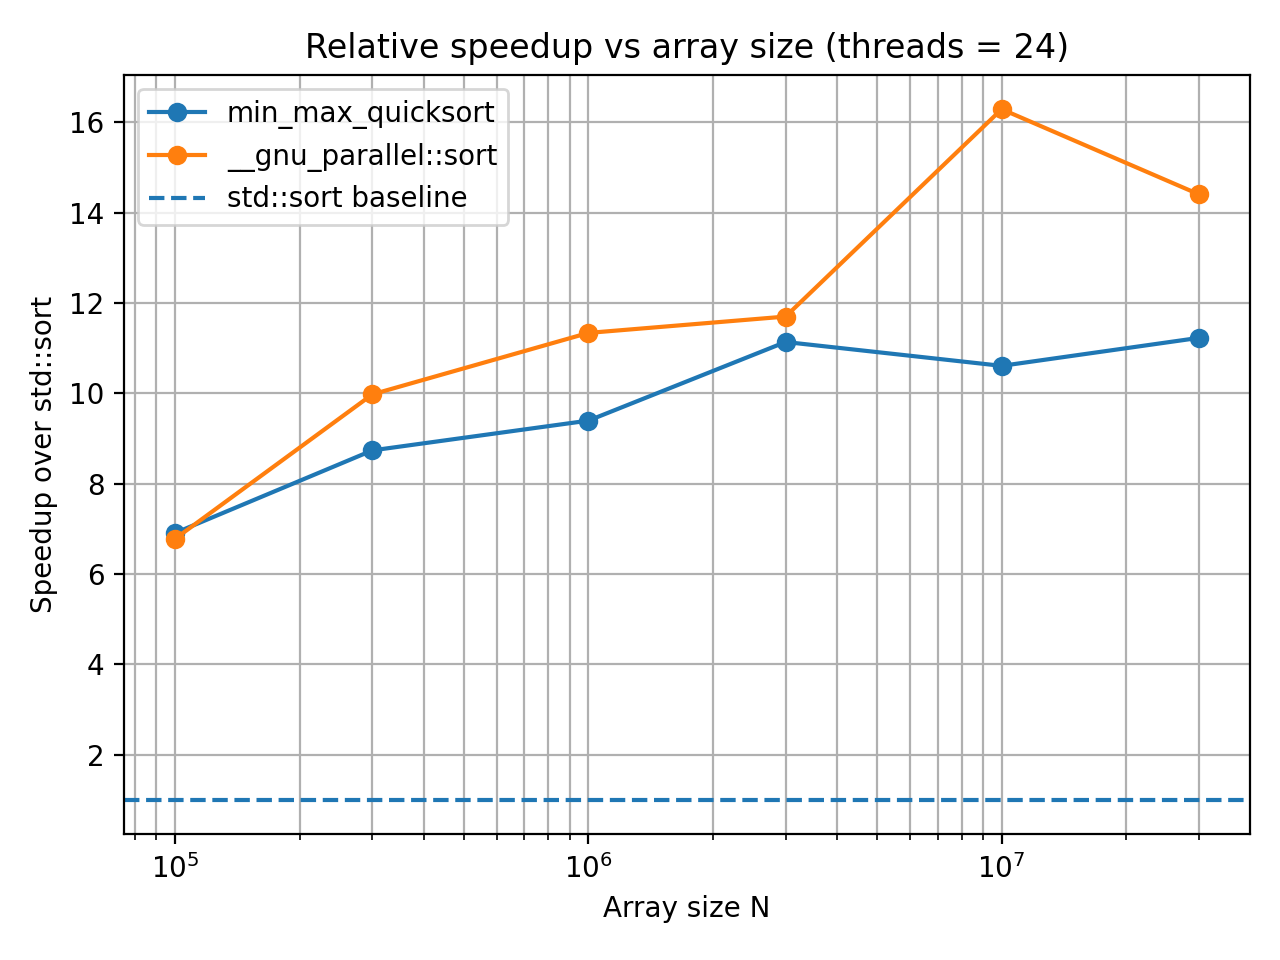
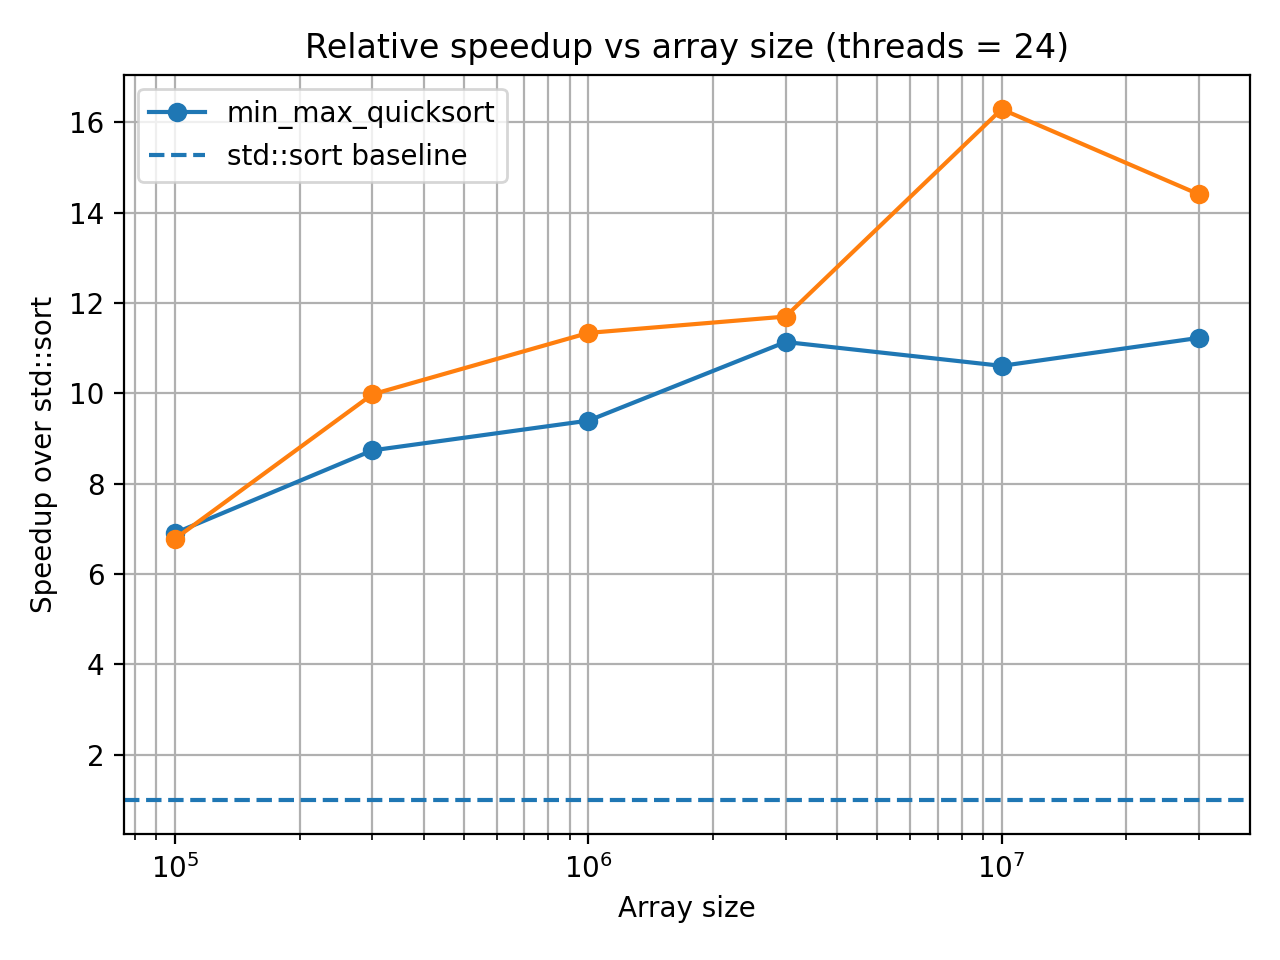
Refactor benchmark code to use OpenMP timing; implement Xoroshiro128Plus RNG for reproducible random data generation; enhance speedup plotting in plot_speedup.py

Changed region(s): [[0.0938, 0.1562, 0.4062, 0.25], [0.4688, 0.9375, 0.5938, 0.9688]]

diff --git a/assigment4/plot_speedup.py b/assigment4/plot_speedup.py
@@ -1,83 +1,133 @@
-# plot_speedup.py
+import os
 import pandas as pd
 import matplotlib.pyplot as plt
 
-# Read benchmark results
-df = pd.read_csv("results.csv")
+CSV_PATH = os.path.join(os.path.dirname(__file__), "results.csv")
 
-# Baseline time per N (use time_std with threads == 1)
-baseline = df[df["threads"] == 1][["N", "time_std"]].set_index("N")["time_std"]
+df = pd.read_csv(CSV_PATH)
 
-def add_speedup_columns(group):
-    N = group["N"].iloc[0]
-    t_std = baseline.loc[N]
-    group = group.copy()
-    group["speedup_minmax"] = t_std / group["time_minmax"]
-    group["speedup_gnu"] = t_std / group["time_gnu"]
-    return group
+# ----------------------------
+# Detect format and normalize
+# ----------------------------
+if "N" in df.columns and {"threads", "time_std", "time_minmax", "time_gnu"}.issubset(df.columns):
+    # Format 1: N,threads,time_std,time_minmax,time_gnu
+    # baseline: threads == 1, time_std per N
+    baseline = df[df["threads"] == 1][["N", "time_std"]].drop_duplicates().set_index("N")["time_std"]
 
-df = df.groupby("N", as_index=False).apply(add_speedup_columns).reset_index(drop=True)
+    def add_speedup(group):
+        # Some pandas versions omit grouping columns in apply; use group.name as fallback.
+        N = group["N"].iloc[0] if "N" in group.columns else group.name
+        t_std = baseline.loc[N]
+        group = group.copy()
+        group["speedup_minmax"] = t_std / group["time_minmax"]
+        group["speedup_gnu"] = t_std / group["time_gnu"]
+        return group
 
-# ---------- Graph 1: speedup vs number of threads (fixed N >= 1e7) ----------
-N_fixed = df["N"].max()  # choose the largest N (should be >= 1e7)
-df_fixed = df[df["N"] == N_fixed]
+    df = df.groupby("N", as_index=False).apply(add_speedup).reset_index(drop=True)
 
+    # pick largest N for thread scaling
+    N_fixed = df["N"].max()
+    df_fixed = df[df["N"] == N_fixed].sort_values("threads")
+
+    # pick max threads for size scaling
+    max_threads = df["threads"].max()
+    df_all = df[df["threads"] == max_threads].sort_values("N")
+
+elif {"mode", "size", "threads", "algo", "time_s"}.issubset(df.columns):
+    # Format 2: mode,size,threads,algo,time_s
+
+    # Baseline std_sort time per (mode,size)
+    base = df[df["algo"] == "std_sort"][["mode", "size", "time_s"]].rename(columns={"time_s": "t_std"})
+
+    # Merge baseline into all rows for same (mode,size)
+    df = df.merge(base, on=["mode", "size"], how="left")
+
+    # Compute speedup for algorithms (std_sort will be 1.0)
+    df["speedup"] = df["t_std"] / df["time_s"]
+
+    # Thread sweep plot: mode == "thread"
+    df_thread = df[df["mode"] == "thread"].copy()
+    if df_thread.empty:
+        raise SystemExit("No 'thread' mode data found in CSV.")
+
+    # pick the thread sweep size (usually fixed)
+    size_fixed = df_thread["size"].iloc[0]
+    df_fixed = df_thread[df_thread["size"] == size_fixed]
+
+    # Pivot to get speedup series per algo
+    pivot_fixed = df_fixed.pivot_table(index="threads", columns="algo", values="speedup", aggfunc="median").reset_index()
+
+    # Size sweep plot: mode == "size"
+    df_size = df[df["mode"] == "size"].copy()
+    if df_size.empty:
+        raise SystemExit("No 'size' mode data found in CSV.")
+
+    # pick the threads used in size sweep (should be constant)
+    threads_fixed = int(df_size["threads"].mode().iloc[0])
+    df_all = df_size[df_size["threads"] == threads_fixed]
+
+    pivot_all = df_all.pivot_table(index="size", columns="algo", values="speedup", aggfunc="median").reset_index()
+
+else:
+    raise SystemExit(
+        f"Unknown CSV format. Columns are: {list(df.columns)}\n"
+        "Expected either:\n"
+        "  N,threads,time_std,time_minmax,time_gnu\n"
+        "or\n"
+        "  mode,size,threads,algo,time_s"
+    )
+
+# ----------------------------
+# Plot 1: speedup vs threads
+# ----------------------------
 plt.figure()
-line1, = plt.plot(
-    df_fixed["threads"],
-    df_fixed["speedup_minmax"],
-    marker="o",
-    label="min_max_quicksort"
-)
-line2, = plt.plot(
-    df_fixed["threads"],
-    df_fixed["speedup_gnu"],
-    marker="o",
-    label="__gnu_parallel::sort"
-)
-baseline_line = plt.axhline(
-    1.0,
-    linestyle="--",
-    label="std::sort baseline"
-)
+
+if "N" in df.columns:
+    # Format 1
+    plt.plot(df_fixed["threads"], df_fixed["speedup_minmax"], marker="o", label="min_max_quicksort")
+    plt.plot(df_fixed["threads"], df_fixed["speedup_gnu"], marker="o", label="__gnu_parallel::sort")
+    plt.axhline(1.0, linestyle="--", label="std::sort baseline")
+    plt.title(f"Relative speedup vs threads (N = {N_fixed})")
+else:
+    # Format 2
+    if "min_max" in pivot_fixed.columns:
+        plt.plot(pivot_fixed["threads"], pivot_fixed["min_max"], marker="o", label="min_max_quicksort")
+    if "gnu_parallel" in pivot_fixed.columns:
+        plt.plot(pivot_fixed["threads"], pivot_fixed["gnu_parallel"], marker="o", label="__gnu_parallel::sort")
+    plt.axhline(1.0, linestyle="--", label="std::sort baseline")
+    plt.title(f"Relative speedup vs threads (size = {size_fixed})")
 
 plt.xlabel("Number of threads")
 plt.ylabel("Speedup over std::sort")
-plt.title(f"Relative speedup vs threads (N = {N_fixed})")
-plt.legend(handles=[line1, line2, baseline_line])
 plt.grid(True)
+plt.legend()
 plt.tight_layout()
 plt.savefig("speedup_vs_threads.png", dpi=200)
 
-# ---------- Graph 2: speedup vs array size (all CPU threads) ----------
-max_threads = df["threads"].max()
-df_all = df[df["threads"] == max_threads].sort_values("N")
-
+# ----------------------------
+# Plot 2: speedup vs size
+# ----------------------------
 plt.figure()
-line1, = plt.plot(
-    df_all["N"],
-    df_all["speedup_minmax"],
-    marker="o",
-    label="min_max_quicksort"
-)
-line2, = plt.plot(
-    df_all["N"],
-    df_all["speedup_gnu"],
-    marker="o",
-    label="__gnu_parallel::sort"
-)
-baseline_line = plt.axhline(
-    1.0,
-    linestyle="--",
-    label="std::sort baseline"
-)
 
-plt.xscale("log")  # helpful because sizes differ by orders of magnitude
-plt.xlabel("Array size N")
+if "N" in df.columns:
+    plt.plot(df_all["N"], df_all["speedup_minmax"], marker="o", label="min_max_quicksort")
+    plt.plot(df_all["N"], df_all["speedup_gnu"], marker="o", label="__gnu_parallel::sort")
+    max_threads = df["threads"].max()
+    plt.title(f"Relative speedup vs array size (threads = {max_threads})")
+    plt.xscale("log")
+else:
+    if "min_max" in pivot_all.columns:
+        plt.plot(pivot_all["size"], pivot_all["min_max"], marker="o", label="min_max_quicksort")
+    if "gnu_parallel" in pivot_all.columns:
+        plt.plot(pivot_all["size"], pivot_all["gnu_parallel"], marker="o", label="__gnu_parallel::sort")
+    plt.title(f"Relative speedup vs array size (threads = {threads_fixed})")
+    plt.xscale("log")
+
+plt.axhline(1.0, linestyle="--", label="std::sort baseline")
+plt.xlabel("Array size")
 plt.ylabel("Speedup over std::sort")
-plt.title(f"Relative speedup vs array size (threads = {max_threads})")
-plt.legend(handles=[line1, line2, baseline_line])
 plt.grid(True, which="both")
+plt.legend()
 plt.tight_layout()
 plt.savefig("speedup_vs_size.png", dpi=200)
 

diff --git a/assigment4/benchmark.cpp b/assigment4/benchmark.cpp
@@ -2,43 +2,62 @@
 #include "min_max_quicksort.h"
 
 #include <parallel/algorithm>
-#include <chrono>
 #include <cstdint>
 #include <iostream>
 #include <random>
 #include <vector>
 #include <omp.h>
-#include <thread>
 
 #include "assigment4/benchmark.h"
 #include "assigment4/min_max_quicksort.h"
 
-using Clock = std::chrono::high_resolution_clock;
-
 template <class F>
 double time_it(F&& f) {
-    auto start = Clock::now();
+    double start = omp_get_wtime();
     f();
-    auto end = Clock::now();
-    std::chrono::duration<double> diff = end - start;
-    return diff.count();
+    double end = omp_get_wtime();
+    return end - start;
 }
+
+class Xoroshiro128Plus {
+    uint64_t state[2]{};
+
+    static inline uint64_t rotl(const uint64_t x, int k) {
+        return (x << k) | (x >> (64 - k));
+    }
+
+public:
+    explicit Xoroshiro128Plus(uint64_t seed = 0) {
+        state[0] = (12345678901234567 + seed) | 0b1001000010000001000100101000000110010010100000011001001010000001ULL;
+        state[1] = (98765432109876543 + seed) | 0b0100000011001100100000011001001010000000100100101000000110010010ULL;
+        for(int i = 0; i < 10; i++){operator()();}
+    }
+
+    uint64_t operator()() {
+        const uint64_t s0 = state[0];
+        uint64_t s1 = state[1];
+        const uint64_t result = s0 + s1;
+
+        s1 ^= s0;
+        state[0] = rotl(s0, 24) ^ s1 ^ (s1 << 16);
+        state[1] = rotl(s1, 37);
+        return result;
+    }
+};
 
 // Fill a vector with reproducible random data (same as before, but simpler RNG)
 static void fill_random(std::vector<int64_t>& v) {
-    std::mt19937_64 rng(42);
-    std::uniform_int_distribution<int64_t> dist(
-        std::numeric_limits<int64_t>::min(),
-        std::numeric_limits<int64_t>::max()
-    );
-    for (auto &x : v) x = dist(rng);
+    Xoroshiro128Plus generator(500000);
+    for (int64_t i = 0; i < v.size(); ++i) {
+        v[i] = static_cast<int64_t>(generator());
+    }
 }
 
 
 
 void benchmark::run() {
-    std::ios::sync_with_stdio(false);
-    std::cin.tie(nullptr);
+    // std::ios::sync_with_stdio(false);
+    // std::cin.tie(nullptr);
 
 
 
@@ -65,40 +84,29 @@ void benchmark::run() {
     std::cout << "N,threads,time_std,time_minmax,time_gnu\n";
 
     for (std::size_t N : sizes) {
+
+
         std::vector<int64_t> base(N);
         fill_random(base);
-
-
-        std::vector<int64_t> arr_std = base;
         double t_std = time_it([&] {
-            __gnu_sequential::sort(arr_std.begin(), arr_std.end());
+            std::sort(base.begin(), base.end());
         });
 
-        std::vector<int64_t> reference = arr_std;
 
         for (int threads = 1; threads <= max_threads; ++threads) {
 
-            std::vector<int64_t> arr_mm = base;
+            std::vector<int64_t> arr_mm(N);
+            fill_random(arr_mm);
             double t_mm = time_it([&] {
                 min_max_quicksort(arr_mm.data(), static_cast<int64_t>(arr_mm.size()), threads);
             });
 
-            if (arr_mm != reference) {
-                std::cerr << "ERROR: min_max_quicksort wrong result for N="
-                          << N << " threads=" << threads << "\n";
-            }
 
-
-            std::vector<int64_t> arr_gnu = base;
-            omp_set_num_threads(threads);
+            std::vector<int64_t> arr_gnu(N);
+            fill_random(arr_gnu);
             double t_gnu = time_it([&] {
-                __gnu_parallel::sort(arr_gnu.begin(), arr_gnu.end());
+                __gnu_parallel::sort(arr_gnu.begin(), arr_gnu.end(), __gnu_parallel::parallel_tag(threads));
             });
-
-            if (arr_gnu != reference) {
-                std::cerr << "ERROR: __gnu_parallel::sort wrong result for N="
-                          << N << " threads=" << threads << "\n";
-            }
 
             std::cout << N << "," << threads << ","
                       << t_std << "," << t_mm << "," << t_gnu << "\n";
